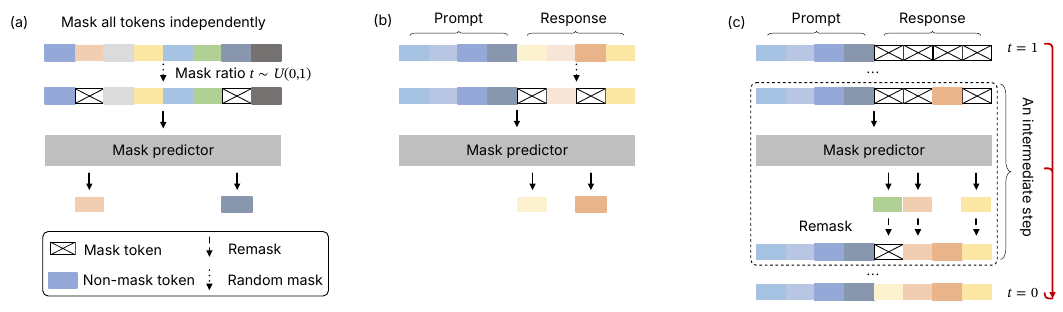
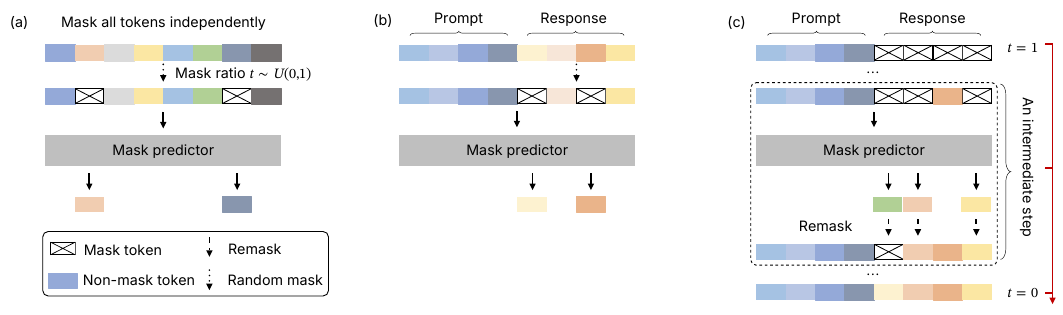
fix(examples): flush LLaDA cells and a straight time arrow
Solid cells drew a 1pt same-colour frame that overhung their neighbours, so
rows looked ragged; thin the node frames to 0.25pt and give the arrows their
own lineWidth. Sharp edge corners and a separate junction for the last tick
remove the hook at the end of the time arrow.

Refs #421

diff --git a/docs/gallery/index.html b/docs/gallery/index.html
@@ -2020,7 +2020,7 @@ edges:
 </section>
 <section class="card">
 <header><h3>LLaDA — overview of pre-training, SFT and sampling</h3><a href="../../examples/llada/llada.sumi.yaml"><code>examples/llada/llada.sumi.yaml</code></a> · <a href="../../examples/llada/llada.pdf">PDF</a></header>
-<div class="renders"><figure><img src="../../examples/llada/llada.svg" alt="LLaDA — overview of pre-training, SFT and sampling" loading="lazy"><figcaption>theme <code>paper</code> · profile <code>paper-double</code><br>180mm × 52.79mm (max width 180mm, max height 220mm)</figcaption></figure></div>
+<div class="renders"><figure><img src="../../examples/llada/llada.svg" alt="LLaDA — overview of pre-training, SFT and sampling" loading="lazy"><figcaption>theme <code>paper</code> · profile <code>paper-double</code><br>180mm × 53.24mm (max width 180mm, max height 220mm)</figcaption></figure></div>
 </section>
 <section class="card">
 <header><h3>Llama 4 — Mixture of Experts</h3><a href="../../examples/llama4-moe/llama4-moe.sumi.yaml"><code>examples/llama4-moe/llama4-moe.sumi.yaml</code></a> · <a href="../../examples/llama4-moe/llama4-moe.pdf">PDF</a></header>

diff --git a/docs/gallery/examples.md b/docs/gallery/examples.md
@@ -48,7 +48,7 @@ The committed SVGs of <code>examples/</code>, rendered from their sources as wri
 
 ## LLaDA — overview of pre\-training, SFT and sampling
 
-[<code>examples/llada/llada\.sumi\.yaml</code>](../../examples/llada/llada.sumi.yaml) · [PDF](../../examples/llada/llada.pdf) · theme <code>paper</code> · profile <code>paper\-double</code> · 180mm × 52\.79mm \(max width 180mm, max height 220mm\)
+[<code>examples/llada/llada\.sumi\.yaml</code>](../../examples/llada/llada.sumi.yaml) · [PDF](../../examples/llada/llada.pdf) · theme <code>paper</code> · profile <code>paper\-double</code> · 180mm × 53\.24mm \(max width 180mm, max height 220mm\)
 
 <img src="../../examples/llada/llada.svg" alt="LLaDA — overview of pre-training, SFT and sampling">
 
